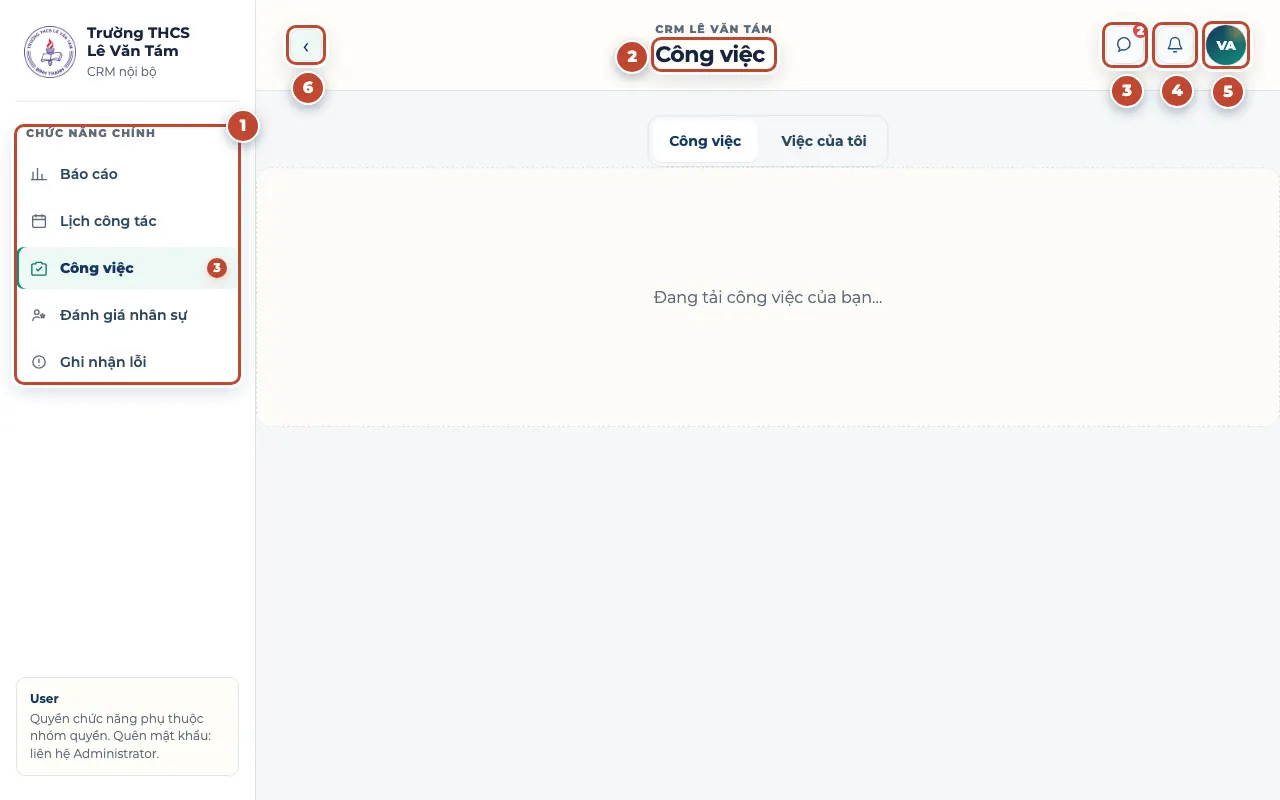
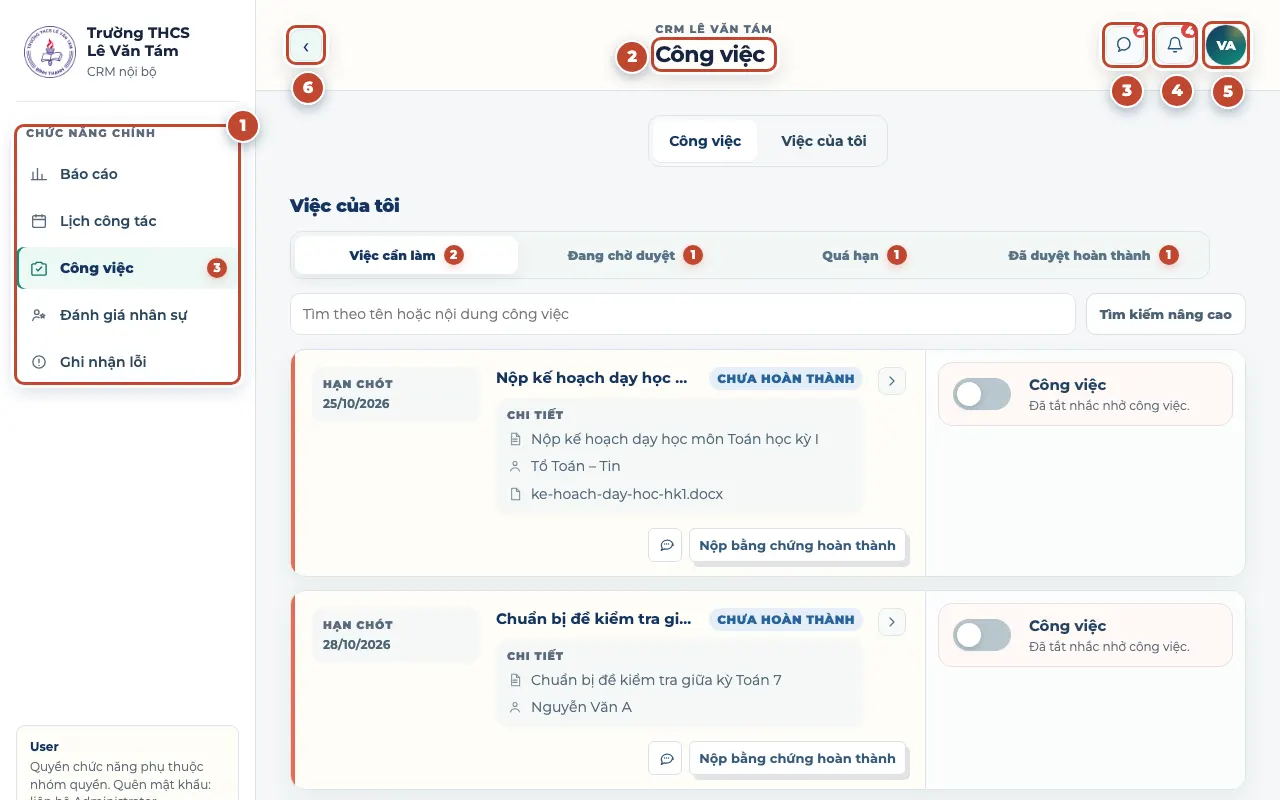
docs(guide): per-menu reference, flow diagrams, refreshed screenshots

diff --git a/public/huong-dan-su-dung.html b/public/huong-dan-su-dung.html
@@ -593,10 +593,10 @@ mark { background: #fff3c8; color: inherit; border-radius: 3px; padding: 0 1px; 
       <p class="hero-kicker">CRM nội bộ · Trường THCS Lê Văn Tám</p>
       <h1>Cẩm nang sử dụng</h1>
       <p class="hero-sub">Hướng dẫn từng bước, có hình minh họa đánh số. Chọn vai trò của thầy cô để bắt đầu, hoặc gõ điều cần tìm vào ô tìm kiếm.</p>
-      <p class="hero-meta">45 chủ đề · 74 hình minh họa · Cập nhật 21/10/2026</p>
+      <p class="hero-meta">50 chủ đề · 77 hình minh họa · Cập nhật 22/10/2026</p>
     </div>
   </div>
-  <nav class="role-cards" aria-label="Chọn theo vai trò"><a class="role-card" href="#bat-dau-nhanh"><span class="role-icon" aria-hidden="true">🚀</span><strong>Bắt đầu nhanh</strong><small>Đăng nhập, quên mật khẩu, làm quen màn hình</small></a><a class="role-card" href="#giao-vien"><span class="role-icon" aria-hidden="true">👩🏫</span><strong>Tôi là giáo viên</strong><small>Lịch công tác, công việc, việc của tôi, trao đổi</small></a><a class="role-card" href="#gvcn"><span class="role-icon" aria-hidden="true">🏫</span><strong>Tôi là GVCN</strong><small>Lớp chủ nhiệm, điểm danh lớp, báo cáo</small></a><a class="role-card" href="#giam-thi"><span class="role-icon" aria-hidden="true">📋</span><strong>Tôi là Giám thị</strong><small>Điểm danh các lớp theo khối, nhập Excel</small></a><a class="role-card" href="#to-truong-bgh"><span class="role-icon" aria-hidden="true">🧭</span><strong>Tổ trưởng / BGH</strong><small>Tạo, duyệt, sửa lịch; duyệt công văn; báo cáo</small></a><a class="role-card" href="#van-thu-quan-tri"><span class="role-icon" aria-hidden="true">🗂</span><strong>Văn thư / Quản trị</strong><small>Công văn, tài khoản, nhóm quyền, năm học</small></a><a class="role-card" href="#tra-cuu-menu"><span class="role-icon" aria-hidden="true">📚</span><strong>Tra cứu theo menu</strong><small>Mỗi menu có gì, ai thấy, nút nào làm gì</small></a></nav>
+  <nav class="role-cards" aria-label="Chọn theo vai trò"><a class="role-card" href="#bat-dau-nhanh"><span class="role-icon" aria-hidden="true">🚀</span><strong>Bắt đầu nhanh</strong><small>Đăng nhập, quên mật khẩu, làm quen màn hình</small></a><a class="role-card" href="#giao-vien"><span class="role-icon" aria-hidden="true">👩🏫</span><strong>Tôi là giáo viên</strong><small>Lịch công tác, công việc, việc của tôi, trao đổi</small></a><a class="role-card" href="#gvcn"><span class="role-icon" aria-hidden="true">🏫</span><strong>Tôi là GVCN</strong><small>Lớp chủ nhiệm, điểm danh lớp, báo cáo</small></a><a class="role-card" href="#giam-thi"><span class="role-icon" aria-hidden="true">📋</span><strong>Tôi là Giám thị</strong><small>Điểm danh các lớp theo khối, nhập Excel</small></a><a class="role-card" href="#to-truong-bgh"><span class="role-icon" aria-hidden="true">🧭</span><strong>Tổ trưởng / BGH</strong><small>Tạo, duyệt, sửa lịch; giao và duyệt việc; báo cáo</small></a><a class="role-card" href="#van-thu-quan-tri"><span class="role-icon" aria-hidden="true">🗂</span><strong>Văn thư / Quản trị</strong><small>Lịch tuần, lớp, tài khoản, nhóm quyền, năm học</small></a><a class="role-card" href="#tra-cuu-menu"><span class="role-icon" aria-hidden="true">📚</span><strong>Tra cứu theo menu</strong><small>Mỗi menu có gì, ai thấy, nút nào làm gì</small></a></nav>
 </header>
 
 <div class="layout">
@@ -619,7 +619,7 @@ mark { background: #fff3c8; color: inherit; border-radius: 3px; padding: 0 1px; 
 <li class="toc-part" data-part="giam-thi"><a href="#giam-thi"><span class="toc-num">4</span>Tôi là Giám thị</a><ol><li data-topic="dd-diem-danh-man-hinh"><a href="#dd-diem-danh-man-hinh">Điểm danh các lớp trên màn hình</a></li><li data-topic="dd-diem-danh-excel"><a href="#dd-diem-danh-excel">Nhập điểm danh bằng file Excel</a></li><li data-topic="dd-diem-danh-dien-thoai"><a href="#dd-diem-danh-dien-thoai">Điểm danh trên điện thoại</a></li></ol></li>
 <li class="toc-part" data-part="to-truong-bgh"><a href="#to-truong-bgh"><span class="toc-num">5</span>Tôi là tổ trưởng / Ban Giám hiệu</a><ol><li data-topic="ct-tao-cong-tac"><a href="#ct-tao-cong-tac">Tạo công tác mới</a></li><li data-topic="ct-import-excel"><a href="#ct-import-excel">Nhập nhiều công tác bằng Excel</a></li><li data-topic="ct-bgh-duyet-sua"><a href="#ct-bgh-duyet-sua">Ban Giám hiệu duyệt, trả lại hoặc sửa trực tiếp lịch tuần</a></li><li data-topic="cv-tao-cong-viec"><a href="#cv-tao-cong-viec">Tạo công việc và giao cho phòng ban, cá nhân</a></li><li data-topic="cv-duyet-hoan-thanh"><a href="#cv-duyet-hoan-thanh">Duyệt kết quả hoàn thành</a></li><li data-topic="bc-bao-cao-cong-viec"><a href="#bc-bao-cao-cong-viec">Báo cáo công việc theo người và theo kỳ</a></li><li data-topic="dg-danh-gia-nguoi-khac"><a href="#dg-danh-gia-nguoi-khac">Đánh giá nhân sự cấp dưới (tổ trưởng, Ban Giám hiệu)</a></li></ol></li>
 <li class="toc-part" data-part="van-thu-quan-tri"><a href="#van-thu-quan-tri"><span class="toc-num">6</span>Văn thư / Quản trị hệ thống</a><ol><li data-topic="tl-trinh-tu-thiet-lap"><a href="#tl-trinh-tu-thiet-lap">Trình tự thiết lập đầu năm học</a></li><li data-topic="ct-nop-duyet-tuan"><a href="#ct-nop-duyet-tuan">Nộp lịch tuần cho Ban Giám hiệu duyệt</a></li><li data-topic="cn-quan-ly-lop"><a href="#cn-quan-ly-lop">Quản lý lớp, phân công GVCN và nhập danh sách học sinh</a></li><li data-topic="tl-nguoi-dung"><a href="#tl-nguoi-dung">Tạo tài khoản người dùng</a></li><li data-topic="tl-quan-ly-tai-khoan"><a href="#tl-quan-ly-tai-khoan">Sửa, đặt lại mật khẩu, khóa và mở khóa tài khoản</a></li><li data-topic="tl-import-export"><a href="#tl-import-export">Import và xuất danh sách người dùng bằng Excel</a></li><li data-topic="tl-phong-ban"><a href="#tl-phong-ban">Thiết lập phòng ban</a></li><li data-topic="tl-chuc-vu"><a href="#tl-chuc-vu">Thiết lập chức vụ và cấp bậc</a></li><li data-topic="tl-nhom-quyen"><a href="#tl-nhom-quyen">Thiết lập nhóm quyền (kể cả Giám thị)</a></li><li data-topic="nh-thiet-lap-nam-hoc"><a href="#nh-thiet-lap-nam-hoc">Thiết lập năm học và ngày nghỉ lễ</a></li><li data-topic="tl-loai-van-ban"><a href="#tl-loai-van-ban">Thiết lập loại văn bản</a></li><li data-topic="tl-hien-thi"><a href="#tl-hien-thi">Thiết lập hiển thị và mốc thông báo</a></li></ol></li>
-<li class="toc-part" data-part="tra-cuu-menu"><a href="#tra-cuu-menu"><span class="toc-num">7</span>Tra cứu theo menu</a><ol></ol></li>
+<li class="toc-part" data-part="tra-cuu-menu"><a href="#tra-cuu-menu"><span class="toc-num">7</span>Tra cứu theo menu</a><ol><li data-topic="menu-lich-cong-tac"><a href="#menu-lich-cong-tac">Lịch công tác</a></li><li data-topic="menu-cong-viec"><a href="#menu-cong-viec">Công việc</a></li><li data-topic="menu-lop-chu-nhiem"><a href="#menu-lop-chu-nhiem">Lớp chủ nhiệm và Điểm danh</a></li><li data-topic="menu-khac"><a href="#menu-khac">Thông báo, Trao đổi, Báo cáo, Đánh giá nhân sự, Ghi nhận lỗi</a></li><li data-topic="khi-khong-thay"><a href="#khi-khong-thay">Khi không thấy menu, nút hoặc dữ liệu</a></li></ol></li>
       </ol>
     </details>
   </aside>
@@ -678,9 +678,9 @@ mark { background: #fff3c8; color: inherit; border-radius: 3px; padding: 0 1px; 
 <header class="topic-head"><h3><a class="topic-anchor" href="#vai-tro-va-quyen">Vai trò, chức vụ và nhóm quyền</a></h3><div class="chips"><span class="chip chip-menu">Toàn bộ ứng dụng</span><span class="chip">Mọi người</span></div></header>
 <p class="lead">Hiểu vì sao mỗi người thấy menu và nút khác nhau.</p>
 <p>Mỗi tài khoản có <strong>một vai trò</strong>:</p>
-<div class="table-wrap"><table><thead><tr><th scope="col">Vai trò</th><th scope="col">Ai thường giữ</th><th scope="col">Được làm gì</th></tr></thead><tbody><tr><td><strong>Administrator</strong></td><td>Quản trị viên CNTT</td><td>Toàn quyền, gồm phần <strong>Thiết lập tối cao</strong> (tài khoản, phòng ban, chức vụ, nhóm quyền, năm học…).</td></tr><tr><td><strong>Moderator</strong></td><td>Văn thư, người điều phối</td><td>Quản lý nghiệp vụ hằng ngày: công văn, lịch công tác, lớp, báo cáo. Không vào Thiết lập tối cao.</td></tr><tr><td><strong>User</strong></td><td>Giáo viên, nhân viên, BGH</td><td>Dùng các menu mà <strong>nhóm quyền</strong> cho phép.</td></tr></tbody></table></div>
+<div class="table-wrap"><table><thead><tr><th scope="col">Vai trò</th><th scope="col">Ai thường giữ</th><th scope="col">Được làm gì</th></tr></thead><tbody><tr><td><strong>Administrator</strong></td><td>Quản trị viên CNTT</td><td>Toàn quyền, gồm phần <strong>Thiết lập tối cao</strong> (tài khoản, phòng ban, chức vụ, nhóm quyền, năm học…).</td></tr><tr><td><strong>Moderator</strong></td><td>Văn thư, người điều phối</td><td>Quản lý nghiệp vụ hằng ngày: giao việc, lịch công tác, lớp, báo cáo. Không vào Thiết lập tối cao.</td></tr><tr><td><strong>User</strong></td><td>Giáo viên, nhân viên, BGH</td><td>Dùng các menu mà <strong>nhóm quyền</strong> cho phép.</td></tr></tbody></table></div>
 <p>Với <strong>User</strong>, ba thứ quyết định những gì thầy cô thấy:</p>
-<ul class="bullets"><li><strong>Nhóm quyền</strong>: mỗi menu ở một mức <strong>Ẩn</strong> (không thấy), <strong>Xem</strong> (dùng trong phạm vi của mình) hoặc <strong>Xem tối cao</strong> (xem rộng hơn, ví dụ toàn trường).</li><li><strong>Giám thị</strong>: mức đặc biệt, chỉ có ở menu <strong>Điểm danh</strong>. Người có mức này điểm danh được các lớp; nó không mở thêm menu nào khác.</li><li><strong>Chức vụ</strong> (1 đến 5 sao): cấp cao hơn mới duyệt, giao việc hay ghi nhận lỗi cho cấp thấp hơn. Tổ trưởng, tổ phó (2–3 sao) tạo được lịch công tác cho tổ; Phó Hiệu trưởng, Hiệu trưởng (4–5 sao) duyệt công văn và duyệt, sửa lịch công tác tuần.</li></ul>
+<ul class="bullets"><li><strong>Nhóm quyền</strong>: mỗi menu ở một mức <strong>Ẩn</strong> (không thấy), <strong>Xem</strong> (dùng trong phạm vi của mình) hoặc <strong>Xem tối cao</strong> (xem rộng hơn, ví dụ toàn trường).</li><li><strong>Giám thị</strong>: mức đặc biệt, chỉ có ở menu <strong>Điểm danh</strong>. Người có mức này điểm danh được các lớp; nó không mở thêm menu nào khác.</li><li><strong>Chức vụ</strong> (1 đến 5 sao): cấp cao hơn mới duyệt, giao việc hay ghi nhận lỗi cho cấp thấp hơn. Tổ trưởng, tổ phó (2–3 sao) tạo được lịch công tác cho tổ và giao việc; Phó Hiệu trưởng, Hiệu trưởng (4–5 sao) duyệt, sửa lịch công tác tuần và ghi nhận xét đánh giá.</li></ul>
 <div class="figure-row"><figure class="figure" id="hinh-7"><button type="button" class="figure-zoom" aria-label="Phóng to hình 7"><img src="huong-dan/menu-giao-vien.webp" width="256" height="640" alt="Hình 7. Cùng một ứng dụng nhưng menu khác nhau: giáo viên" loading="lazy" decoding="async"></button><figcaption><b>Hình 7.</b> Cùng một ứng dụng nhưng menu khác nhau: giáo viên</figcaption></figure><figure class="figure" id="hinh-8"><button type="button" class="figure-zoom" aria-label="Phóng to hình 8"><img src="huong-dan/menu-giam-thi.webp" width="256" height="640" alt="Hình 8. Giám thị" loading="lazy" decoding="async"></button><figcaption><b>Hình 8.</b> Giám thị</figcaption></figure><figure class="figure" id="hinh-9"><button type="button" class="figure-zoom" aria-label="Phóng to hình 9"><img src="huong-dan/menu-quan-tri.webp" width="256" height="1100" alt="Hình 9. Quản trị viên (có thêm Thiết lập tối cao)" loading="lazy" decoding="async"></button><figcaption><b>Hình 9.</b> Quản trị viên (có thêm Thiết lập tối cao)</figcaption></figure></div>
 <aside class="callout callout-note"><p class="callout-title"><svg viewBox="0 0 24 24" width="18" height="18" fill="none" stroke="currentColor" stroke-width="2" stroke-linecap="round" stroke-linejoin="round" aria-hidden="true"><circle cx="12" cy="12" r="9"/><path d="M12 11v6M12 7.5h.01"/></svg><span>Moderator theo phòng ban</span></p><p>Nhà trường có thể giới hạn một Moderator chỉ quản lý <strong>phòng ban của mình</strong> ở Công việc, Báo cáo, Đánh giá nhân sự và Ghi nhận lỗi. Khi đó họ chỉ thấy dữ liệu của tổ đó.</p></aside>
 <aside class="callout callout-tip"><p class="callout-title"><svg viewBox="0 0 24 24" width="18" height="18" fill="none" stroke="currentColor" stroke-width="2" stroke-linecap="round" stroke-linejoin="round" aria-hidden="true"><path d="M9 18h6M10 21h4M12 3a6 6 0 0 0-3.5 10.9c.6.5 1 1.2 1 2V16h5v-.1c0-.8.4-1.5 1-2A6 6 0 0 0 12 3Z"/></svg><span>Mẹo</span></p><p><strong>Trao đổi</strong> và <strong>Công việc</strong> (ít nhất là tab <strong>Việc của tôi</strong>) luôn có cho mọi tài khoản đang hoạt động.</p></aside>
@@ -912,7 +912,7 @@ mark { background: #fff3c8; color: inherit; border-radius: 3px; padding: 0 1px; 
 </article>
 </section>
 <section class="part" id="to-truong-bgh" aria-labelledby="to-truong-bgh-title">
-<header class="part-head"><p class="part-kicker">Phần 5 · Quản lý chuyên môn</p><h2 id="to-truong-bgh-title">Tôi là tổ trưởng / Ban Giám hiệu</h2><p>Tạo và duyệt lịch công tác, duyệt công văn, giao việc cho tổ, theo dõi báo cáo và đánh giá nhân sự.</p></header>
+<header class="part-head"><p class="part-kicker">Phần 5 · Quản lý chuyên môn</p><h2 id="to-truong-bgh-title">Tôi là tổ trưởng / Ban Giám hiệu</h2><p>Tạo lịch cho tổ, duyệt và sửa lịch tuần của trường, giao việc và duyệt kết quả, theo dõi báo cáo và đánh giá nhân sự.</p></header>
 <article class="topic" id="ct-tao-cong-tac" data-keywords="tao cong tac, them lich, len lich, hop to">
 <header class="topic-head"><h3><a class="topic-anchor" href="#ct-tao-cong-tac">Tạo công tác mới</a></h3><div class="chips"><span class="chip chip-menu">Lịch công tác → + Tạo công tác</span><span class="chip">Tổ trưởng</span><span class="chip">Tổ phó</span><span class="chip">Văn thư</span></div></header>
 <p class="lead">Lên lịch một buổi họp, dự giờ, sự kiện cho tổ hoặc cho toàn trường.</p>
@@ -987,7 +987,7 @@ mark { background: #fff3c8; color: inherit; border-radius: 3px; padding: 0 1px; 
 </article>
 </section>
 <section class="part" id="van-thu-quan-tri" aria-labelledby="van-thu-quan-tri-title">
-<header class="part-head"><p class="part-kicker">Phần 6 · Moderator · Administrator</p><h2 id="van-thu-quan-tri-title">Văn thư / Quản trị hệ thống</h2><p>Nhập công văn và giao việc, quản lý tài khoản, phòng ban, chức vụ, nhóm quyền, năm học.</p></header>
+<header class="part-head"><p class="part-kicker">Phần 6 · Moderator · Administrator</p><h2 id="van-thu-quan-tri-title">Văn thư / Quản trị hệ thống</h2><p>Soạn và nộp lịch tuần, quản lý lớp, tài khoản, phòng ban, chức vụ, nhóm quyền, năm học và các thiết lập chung.</p></header>
 <article class="topic" id="tl-trinh-tu-thiet-lap" data-keywords="thiet lap, dau nam, cai dat, trinh tu">
 <header class="topic-head"><h3><a class="topic-anchor" href="#tl-trinh-tu-thiet-lap">Trình tự thiết lập đầu năm học</a></h3><div class="chips"><span class="chip chip-menu">Thiết lập tối cao</span><span class="chip">Administrator</span></div></header>
 <p class="lead">Làm theo đúng thứ tự để khi tạo tài khoản đã có sẵn mọi lựa chọn.</p>
@@ -1096,7 +1096,44 @@ mark { background: #fff3c8; color: inherit; border-radius: 3px; padding: 0 1px; 
 </section>
 <section class="part" id="tra-cuu-menu" aria-labelledby="tra-cuu-menu-title">
 <header class="part-head"><p class="part-kicker">Phần 7 · Tham khảo</p><h2 id="tra-cuu-menu-title">Tra cứu theo menu</h2><p>Tóm tắt từng menu: dùng để làm gì, ai nhìn thấy, các nút chính và liên kết tới hướng dẫn chi tiết.</p></header>
-
+<article class="topic" id="menu-lich-cong-tac" data-keywords="tra cuu, lich cong tac, menu">
+<header class="topic-head"><h3><a class="topic-anchor" href="#menu-lich-cong-tac">Lịch công tác</a></h3><div class="chips"><span class="chip chip-menu">Lịch công tác</span><span class="chip">Mọi người có quyền Xem</span></div></header>
+<p class="lead">Lịch họp, dự giờ, sự kiện của cá nhân, của tổ và của toàn trường.</p>
+<ol class="steps"><li>Mở menu <strong>Lịch công tác</strong> ở cột trái (trên điện thoại: <strong>☰ → Lịch công tác</strong>).</li><li>Chọn tab <strong>Lịch công tác cá nhân</strong> hoặc <strong>Lịch công tác chung</strong>.</li></ol>
+<figure class="figure is-diagram" id="hinh-75"><button type="button" class="figure-zoom" aria-label="Phóng to hình 75"><img src="huong-dan/luong-lich-cong-tac.svg" width="900" height="380" alt="Hình 75. Luồng Lịch công tác: Văn thư soạn và nộp, Ban Giám hiệu duyệt hoặc sửa, giáo viên thấy lịch" loading="lazy" decoding="async"></button><figcaption><b>Hình 75.</b> Luồng Lịch công tác: Văn thư soạn và nộp, Ban Giám hiệu duyệt hoặc sửa, giáo viên thấy lịch</figcaption></figure>
+<div class="table-wrap"><table><thead><tr><th scope="col">Ai</th><th scope="col">Thấy / làm được gì</th><th scope="col">Hướng dẫn</th></tr></thead><tbody><tr><td>Mọi người</td><td>Lịch cá nhân, lịch chung đã duyệt, tải PDF, xác nhận tham gia</td><td><a href="#ct-xem-lich-ca-nhan">Lịch của tôi</a>, <a href="#ct-lich-chung-pdf">Lịch chung</a>, <a href="#ct-xac-nhan-tham-gia">Xác nhận</a></td></tr><tr><td>Tổ trưởng, tổ phó</td><td>Nút <strong>Import Excel</strong>, <strong>+ Tạo công tác</strong> ở góc phải; lịch cho tổ</td><td><a href="#ct-tao-cong-tac">Tạo công tác</a>, <a href="#ct-import-excel">Import Excel</a></td></tr><tr><td>Văn thư (Moderator), Admin</td><td>Tạo lịch trường, nộp lịch tuần cho BGH</td><td><a href="#ct-nop-duyet-tuan">Nộp duyệt</a></td></tr><tr><td>Ban Giám hiệu (4–5 sao)</td><td>Duyệt / trả lại lịch tuần, sửa trực tiếp, xem lịch sử</td><td><a href="#ct-bgh-duyet-sua">Duyệt, sửa</a></td></tr></tbody></table></div>
+</article>
+<article class="topic" id="menu-cong-viec" data-keywords="tra cuu, cong viec, viec cua toi, menu">
+<header class="topic-head"><h3><a class="topic-anchor" href="#menu-cong-viec">Công việc</a></h3><div class="chips"><span class="chip chip-menu">Công việc</span><span class="chip">Mọi người</span></div></header>
+<p class="lead">Công việc nhà trường giao (có hạn, có duyệt) và sổ tay việc riêng <strong>Việc của tôi</strong>.</p>
+<ol class="steps"><li>Mở menu <strong>Công việc</strong>. Số đỏ cạnh menu là số việc cần chú ý.</li><li>Chọn tab <strong>Công việc</strong> hoặc <strong>Việc của tôi</strong>.</li></ol>
+<figure class="figure is-diagram" id="hinh-76"><button type="button" class="figure-zoom" aria-label="Phóng to hình 76"><img src="huong-dan/luong-cong-viec.svg" width="900" height="300" alt="Hình 76. Luồng Công việc: người giao tạo việc, người nhận nộp bằng chứng, người giao duyệt hoặc trả về" loading="lazy" decoding="async"></button><figcaption><b>Hình 76.</b> Luồng Công việc: người giao tạo việc, người nhận nộp bằng chứng, người giao duyệt hoặc trả về</figcaption></figure>
+<div class="table-wrap"><table><thead><tr><th scope="col">Ai</th><th scope="col">Thấy / làm được gì</th><th scope="col">Hướng dẫn</th></tr></thead><tbody><tr><td>Mọi người</td><td>Việc được giao, nộp bằng chứng, Việc của tôi</td><td><a href="#cv-viec-duoc-giao">Việc được giao</a>, <a href="#cv-bi-tra-ve">Bị trả về</a>, <a href="#cv-viec-cua-toi">Việc của tôi</a></td></tr><tr><td>Văn thư, tổ trưởng, tổ phó, Admin</td><td><strong>Việc tôi tạo</strong>, <strong>+ Tạo công việc</strong>, duyệt hoàn thành</td><td><a href="#cv-tao-cong-viec">Tạo công việc</a>, <a href="#cv-duyet-hoan-thanh">Duyệt hoàn thành</a></td></tr></tbody></table></div>
+<aside class="callout callout-note"><p class="callout-title"><svg viewBox="0 0 24 24" width="18" height="18" fill="none" stroke="currentColor" stroke-width="2" stroke-linecap="round" stroke-linejoin="round" aria-hidden="true"><circle cx="12" cy="12" r="9"/><path d="M12 11v6M12 7.5h.01"/></svg><span>Ghi chú</span></p><p>Nếu nhóm quyền đặt menu Công việc là <strong>Ẩn</strong>, thầy cô vẫn có tab <strong>Việc của tôi</strong>.</p></aside>
+</article>
+<article class="topic" id="menu-lop-chu-nhiem" data-keywords="tra cuu, lop chu nhiem, diem danh, giam thi, menu">
+<header class="topic-head"><h3><a class="topic-anchor" href="#menu-lop-chu-nhiem">Lớp chủ nhiệm và Điểm danh</a></h3><div class="chips"><span class="chip chip-menu">Lớp chủ nhiệm · Điểm danh</span><span class="chip">GVCN</span><span class="chip">Giám thị</span><span class="chip">Ban Giám hiệu</span><span class="chip">Văn thư</span></div></header>
+<p class="lead">Hai menu cùng phục vụ việc theo dõi chuyên cần học sinh.</p>
+<ol class="steps"><li><strong>Điểm danh</strong>: Giám thị ghi học sinh vắng mỗi sáng.</li><li><strong>Lớp chủ nhiệm</strong>: GVCN xem lớp mình, phân loại vắng có phép / không phép, xem báo cáo.</li></ol>
+<figure class="figure is-diagram" id="hinh-77"><button type="button" class="figure-zoom" aria-label="Phóng to hình 77"><img src="huong-dan/luong-diem-danh.svg" width="900" height="280" alt="Hình 77. Luồng điểm danh: Giám thị điểm danh, GVCN đánh dấu vắng không phép, báo cáo chuyên cần" loading="lazy" decoding="async"></button><figcaption><b>Hình 77.</b> Luồng điểm danh: Giám thị điểm danh, GVCN đánh dấu vắng không phép, báo cáo chuyên cần</figcaption></figure>
+<div class="table-wrap"><table><thead><tr><th scope="col">Ai</th><th scope="col">Menu</th><th scope="col">Hướng dẫn</th></tr></thead><tbody><tr><td>Giám thị (nhóm quyền <strong>Giám thị</strong> ở Điểm danh)</td><td>Điểm danh hôm nay, nhập Excel</td><td><a href="#dd-diem-danh-man-hinh">Điểm danh</a>, <a href="#dd-diem-danh-excel">Excel</a>, <a href="#dd-diem-danh-dien-thoai">Điện thoại</a></td></tr><tr><td>GVCN (Lớp chủ nhiệm: <strong>Xem</strong>)</td><td>Lớp được phân công</td><td><a href="#cn-tong-quan-lop">Tổng quan</a>, <a href="#cn-diem-danh-lop">Vắng không phép</a>, <a href="#cn-danh-sach-hoc-sinh">Học sinh</a>, <a href="#cn-bao-cao-xuat-file">Báo cáo</a></td></tr><tr><td>Ban Giám hiệu (<strong>Xem tối cao</strong>)</td><td>Toàn trường</td><td><a href="#cn-tong-quan-lop">Tổng quan</a></td></tr><tr><td>Văn thư, Admin</td><td>Quản lý lớp, GVCN, danh sách học sinh, năm học; điểm danh ngày đã qua</td><td><a href="#cn-quan-ly-lop">Quản lý lớp</a>, <a href="#nh-thiet-lap-nam-hoc">Năm học</a></td></tr></tbody></table></div>
+</article>
+<article class="topic" id="menu-khac" data-keywords="tra cuu, thong bao, trao doi, bao cao, danh gia, ghi nhan loi, ban tru">
+<header class="topic-head"><h3><a class="topic-anchor" href="#menu-khac">Thông báo, Trao đổi, Báo cáo, Đánh giá nhân sự, Ghi nhận lỗi</a></h3><div class="chips"><span class="chip chip-menu">Các menu khác</span><span class="chip">Mọi người</span></div></header>
+<p class="lead">Tóm tắt nhanh các menu còn lại và nơi đọc hướng dẫn chi tiết.</p>
+<ol class="steps"><li>Tìm menu ở cột trái, hoặc biểu tượng ở góc trên bên phải (Trao đổi, chuông, ảnh đại diện).</li><li>Bấm liên kết trong bảng để đọc hướng dẫn.</li></ol>
+<div class="table-wrap"><table><thead><tr><th scope="col">Menu</th><th scope="col">Dùng để</th><th scope="col">Hướng dẫn</th></tr></thead><tbody><tr><td>Thông báo (chuông)</td><td>Lịch, việc sắp đến hạn, tin nhắn nhóm</td><td><a href="#tb-thong-bao">Thông báo</a></td></tr><tr><td>Trao đổi (tin nhắn)</td><td>Nhắn tin theo công việc, công tác, nhóm</td><td><a href="#td-trao-doi">Trao đổi</a>, <a href="#td-nhom">Nhóm</a></td></tr><tr><td>Báo cáo → Công việc</td><td>Lịch và chỉ số hoàn thành công việc theo người</td><td><a href="#bc-bao-cao-cong-viec">Báo cáo</a></td></tr><tr><td>Đánh giá nhân sự</td><td>Hồ sơ lỗi, công việc, kỳ đánh giá; BGH nhận xét</td><td><a href="#dg-ho-so-cua-toi">Của tôi</a>, <a href="#dg-danh-gia-nguoi-khac">Cấp dưới</a></td></tr><tr><td>Ghi nhận lỗi</td><td>Lỗi của tôi, lỗi do tôi ghi nhận</td><td><a href="#ln-ghi-nhan-loi">Ghi nhận lỗi</a></td></tr><tr><td>Ảnh đại diện</td><td>Hồ sơ, đổi mật khẩu, thiết bị, hướng dẫn, đăng xuất</td><td><a href="#tai-khoan-ca-nhan">Tài khoản</a></td></tr><tr><td>Thiết lập tối cao</td><td>Chỉ Administrator</td><td><a href="#tl-trinh-tu-thiet-lap">Trình tự thiết lập</a></td></tr></tbody></table></div>
+<aside class="callout callout-note"><p class="callout-title"><svg viewBox="0 0 24 24" width="18" height="18" fill="none" stroke="currentColor" stroke-width="2" stroke-linecap="round" stroke-linejoin="round" aria-hidden="true"><circle cx="12" cy="12" r="9"/><path d="M12 11v6M12 7.5h.01"/></svg><span>Ghi chú</span></p><p>Báo cáo <strong>Bán trú</strong> và trang quản lý kỳ bán trú hiện đang ẩn trên bản web; khi nhà trường mở lại, hướng dẫn sẽ được bổ sung.</p></aside>
+</article>
+<article class="topic" id="khi-khong-thay" data-keywords="loi, khong thay, mat menu, khong co nut, ho tro, tai lai trang">
+<header class="topic-head"><h3><a class="topic-anchor" href="#khi-khong-thay">Khi không thấy menu, nút hoặc dữ liệu</a></h3><div class="chips"><span class="chip chip-menu">Toàn bộ ứng dụng</span><span class="chip">Mọi người</span></div></header>
+<p class="lead">Các bước tự kiểm tra trước khi nhờ quản trị viên.</p>
+<ol class="steps"><li>Kiểm tra đang đăng nhập <strong>đúng tài khoản</strong> (bấm ảnh đại diện để xem tên).</li><li><strong>Tải lại trang</strong> (phím F5, hoặc kéo trang xuống trên điện thoại).</li><li>Kiểm tra đã chọn đúng <strong>kỳ, ngày, năm học</strong> hoặc đúng tab (ví dụ tab <strong>Quá hạn</strong> thay vì <strong>Việc cần làm</strong>).</li><li>Nhớ rằng nhiều nút chỉ hiện <strong>đúng lúc</strong> (xác nhận tham gia chỉ trong giờ công tác), <strong>đúng người</strong> (người giao mới duyệt được) hoặc <strong>đúng chức vụ</strong>.</li><li>Vẫn không được: chụp màn hình, ghi rõ đang làm gì, gửi cho quản trị viên của trường.</li></ol>
+<aside class="callout callout-tip"><p class="callout-title"><svg viewBox="0 0 24 24" width="18" height="18" fill="none" stroke="currentColor" stroke-width="2" stroke-linecap="round" stroke-linejoin="round" aria-hidden="true"><path d="M9 18h6M10 21h4M12 3a6 6 0 0 0-3.5 10.9c.6.5 1 1.2 1 2V16h5v-.1c0-.8.4-1.5 1-2A6 6 0 0 0 12 3Z"/></svg><span>Mẹo</span></p><p>Xem <a href="#vai-tro-va-quyen">Vai trò, chức vụ và nhóm quyền</a> để hiểu vì sao mỗi người thấy menu khác nhau.</p></aside>
+<h4>Câu hỏi thường gặp</h4>
+<details class="faq"><summary>Báo “phiên đăng nhập hết hạn”?</summary><div class="faq-answer"><p>Đăng nhập lại. Nếu quản trị viên vừa thu hồi phiên hoặc đặt lại mật khẩu, mọi thiết bị đều phải đăng nhập lại.</p></div></details>
+<details class="faq"><summary>Tôi có dùng được trên máy tính ở nhà không?</summary><div class="faq-answer"><p>Có, chỉ cần trình duyệt và mạng Internet. Nhớ <strong>Đăng xuất</strong> khi dùng máy tính chung.</p></div></details>
+</article>
 </section>
     <footer class="page-foot">
       <p>Không thấy menu hoặc nút như trong hình? Menu của mỗi người phụ thuộc vào vai trò, phòng ban, chức vụ và nhóm quyền. Hãy liên hệ quản trị viên của trường để kiểm tra.</p>

diff --git a/docs/guide/topics/start/vai-tro-va-quyen.md b/docs/guide/topics/start/vai-tro-va-quyen.md
@@ -12,14 +12,14 @@ Mỗi tài khoản có **một vai trò**:
 | Vai trò | Ai thường giữ | Được làm gì |
 |---|---|---|
 | **Administrator** | Quản trị viên CNTT | Toàn quyền, gồm phần **Thiết lập tối cao** (tài khoản, phòng ban, chức vụ, nhóm quyền, năm học…). |
-| **Moderator** | Văn thư, người điều phối | Quản lý nghiệp vụ hằng ngày: công văn, lịch công tác, lớp, báo cáo. Không vào Thiết lập tối cao. |
+| **Moderator** | Văn thư, người điều phối | Quản lý nghiệp vụ hằng ngày: giao việc, lịch công tác, lớp, báo cáo. Không vào Thiết lập tối cao. |
 | **User** | Giáo viên, nhân viên, BGH | Dùng các menu mà **nhóm quyền** cho phép. |
 
 Với **User**, ba thứ quyết định những gì thầy cô thấy:
 
 - **Nhóm quyền**: mỗi menu ở một mức **Ẩn** (không thấy), **Xem** (dùng trong phạm vi của mình) hoặc **Xem tối cao** (xem rộng hơn, ví dụ toàn trường).
 - **Giám thị**: mức đặc biệt, chỉ có ở menu **Điểm danh**. Người có mức này điểm danh được các lớp; nó không mở thêm menu nào khác.
-- **Chức vụ** (1 đến 5 sao): cấp cao hơn mới duyệt, giao việc hay ghi nhận lỗi cho cấp thấp hơn. Tổ trưởng, tổ phó (2–3 sao) tạo được lịch công tác cho tổ; Phó Hiệu trưởng, Hiệu trưởng (4–5 sao) duyệt công văn và duyệt, sửa lịch công tác tuần.
+- **Chức vụ** (1 đến 5 sao): cấp cao hơn mới duyệt, giao việc hay ghi nhận lỗi cho cấp thấp hơn. Tổ trưởng, tổ phó (2–3 sao) tạo được lịch công tác cho tổ và giao việc; Phó Hiệu trưởng, Hiệu trưởng (4–5 sao) duyệt, sửa lịch công tác tuần và ghi nhận xét đánh giá.
 
 ![Cùng một ứng dụng nhưng menu khác nhau: giáo viên](menu-giao-vien)
 ![Giám thị](menu-giam-thi)

diff --git a/docs/guide/topics/reference/menu-khac.md b/docs/guide/topics/reference/menu-khac.md
@@ -1,0 +1,25 @@
+---
+id: menu-khac
+title: Thông báo, Trao đổi, Báo cáo, Đánh giá nhân sự, Ghi nhận lỗi
+menu: Các menu khác
+roles: Mọi người
+keywords: tra cuu, thong bao, trao doi, bao cao, danh gia, ghi nhan loi, ban tru
+---
+Tóm tắt nhanh các menu còn lại và nơi đọc hướng dẫn chi tiết.
+
+1. Tìm menu ở cột trái, hoặc biểu tượng ở góc trên bên phải (Trao đổi, chuông, ảnh đại diện).
+2. Bấm liên kết trong bảng để đọc hướng dẫn.
+
+| Menu | Dùng để | Hướng dẫn |
+|---|---|---|
+| Thông báo (chuông) | Lịch, việc sắp đến hạn, tin nhắn nhóm | [Thông báo](#tb-thong-bao) |
+| Trao đổi (tin nhắn) | Nhắn tin theo công việc, công tác, nhóm | [Trao đổi](#td-trao-doi), [Nhóm](#td-nhom) |
+| Báo cáo → Công việc | Lịch và chỉ số hoàn thành công việc theo người | [Báo cáo](#bc-bao-cao-cong-viec) |
+| Đánh giá nhân sự | Hồ sơ lỗi, công việc, kỳ đánh giá; BGH nhận xét | [Của tôi](#dg-ho-so-cua-toi), [Cấp dưới](#dg-danh-gia-nguoi-khac) |
+| Ghi nhận lỗi | Lỗi của tôi, lỗi do tôi ghi nhận | [Ghi nhận lỗi](#ln-ghi-nhan-loi) |
+| Ảnh đại diện | Hồ sơ, đổi mật khẩu, thiết bị, hướng dẫn, đăng xuất | [Tài khoản](#tai-khoan-ca-nhan) |
+| Thiết lập tối cao | Chỉ Administrator | [Trình tự thiết lập](#tl-trinh-tu-thiet-lap) |
+
+::: note
+Báo cáo **Bán trú** và trang quản lý kỳ bán trú hiện đang ẩn trên bản web; khi nhà trường mở lại, hướng dẫn sẽ được bổ sung.
+:::

diff --git a/docs/guide/topics/reference/khi-khong-thay.md b/docs/guide/topics/reference/khi-khong-thay.md
@@ -1,0 +1,25 @@
+---
+id: khi-khong-thay
+title: Khi không thấy menu, nút hoặc dữ liệu
+menu: Toàn bộ ứng dụng
+roles: Mọi người
+keywords: loi, khong thay, mat menu, khong co nut, ho tro, tai lai trang
+---
+Các bước tự kiểm tra trước khi nhờ quản trị viên.
+
+1. Kiểm tra đang đăng nhập **đúng tài khoản** (bấm ảnh đại diện để xem tên).
+2. **Tải lại trang** (phím F5, hoặc kéo trang xuống trên điện thoại).
+3. Kiểm tra đã chọn đúng **kỳ, ngày, năm học** hoặc đúng tab (ví dụ tab **Quá hạn** thay vì **Việc cần làm**).
+4. Nhớ rằng nhiều nút chỉ hiện **đúng lúc** (xác nhận tham gia chỉ trong giờ công tác), **đúng người** (người giao mới duyệt được) hoặc **đúng chức vụ**.
+5. Vẫn không được: chụp màn hình, ghi rõ đang làm gì, gửi cho quản trị viên của trường.
+
+::: tip
+Xem [Vai trò, chức vụ và nhóm quyền](#vai-tro-va-quyen) để hiểu vì sao mỗi người thấy menu khác nhau.
+:::
+
+### Câu hỏi thường gặp
+??? Báo “phiên đăng nhập hết hạn”?
+Đăng nhập lại. Nếu quản trị viên vừa thu hồi phiên hoặc đặt lại mật khẩu, mọi thiết bị đều phải đăng nhập lại.
+
+??? Tôi có dùng được trên máy tính ở nhà không?
+Có, chỉ cần trình duyệt và mạng Internet. Nhớ **Đăng xuất** khi dùng máy tính chung.

diff --git a/docs/guide/topics/reference/menu-lop-chu-nhiem.md b/docs/guide/topics/reference/menu-lop-chu-nhiem.md
@@ -1,0 +1,20 @@
+---
+id: menu-lop-chu-nhiem
+title: Lớp chủ nhiệm và Điểm danh
+menu: Lớp chủ nhiệm · Điểm danh
+roles: GVCN, Giám thị, Ban Giám hiệu, Văn thư
+keywords: tra cuu, lop chu nhiem, diem danh, giam thi, menu
+---
+Hai menu cùng phục vụ việc theo dõi chuyên cần học sinh.
+
+1. **Điểm danh**: Giám thị ghi học sinh vắng mỗi sáng.
+2. **Lớp chủ nhiệm**: GVCN xem lớp mình, phân loại vắng có phép / không phép, xem báo cáo.
+
+![Luồng điểm danh: Giám thị điểm danh, GVCN đánh dấu vắng không phép, báo cáo chuyên cần](luong-diem-danh)
+
+| Ai | Menu | Hướng dẫn |
+|---|---|---|
+| Giám thị (nhóm quyền **Giám thị** ở Điểm danh) | Điểm danh hôm nay, nhập Excel | [Điểm danh](#dd-diem-danh-man-hinh), [Excel](#dd-diem-danh-excel), [Điện thoại](#dd-diem-danh-dien-thoai) |
+| GVCN (Lớp chủ nhiệm: **Xem**) | Lớp được phân công | [Tổng quan](#cn-tong-quan-lop), [Vắng không phép](#cn-diem-danh-lop), [Học sinh](#cn-danh-sach-hoc-sinh), [Báo cáo](#cn-bao-cao-xuat-file) |
+| Ban Giám hiệu (**Xem tối cao**) | Toàn trường | [Tổng quan](#cn-tong-quan-lop) |
+| Văn thư, Admin | Quản lý lớp, GVCN, danh sách học sinh, năm học; điểm danh ngày đã qua | [Quản lý lớp](#cn-quan-ly-lop), [Năm học](#nh-thiet-lap-nam-hoc) |

diff --git a/docs/guide/topics/reference/menu-lich-cong-tac.md b/docs/guide/topics/reference/menu-lich-cong-tac.md
@@ -1,0 +1,20 @@
+---
+id: menu-lich-cong-tac
+title: Lịch công tác
+menu: Lịch công tác
+roles: Mọi người có quyền Xem
+keywords: tra cuu, lich cong tac, menu
+---
+Lịch họp, dự giờ, sự kiện của cá nhân, của tổ và của toàn trường.
+
+1. Mở menu **Lịch công tác** ở cột trái (trên điện thoại: **☰ → Lịch công tác**).
+2. Chọn tab **Lịch công tác cá nhân** hoặc **Lịch công tác chung**.
+
+![Luồng Lịch công tác: Văn thư soạn và nộp, Ban Giám hiệu duyệt hoặc sửa, giáo viên thấy lịch](luong-lich-cong-tac)
+
+| Ai | Thấy / làm được gì | Hướng dẫn |
+|---|---|---|
+| Mọi người | Lịch cá nhân, lịch chung đã duyệt, tải PDF, xác nhận tham gia | [Lịch của tôi](#ct-xem-lich-ca-nhan), [Lịch chung](#ct-lich-chung-pdf), [Xác nhận](#ct-xac-nhan-tham-gia) |
+| Tổ trưởng, tổ phó | Nút **Import Excel**, **+ Tạo công tác** ở góc phải; lịch cho tổ | [Tạo công tác](#ct-tao-cong-tac), [Import Excel](#ct-import-excel) |
+| Văn thư (Moderator), Admin | Tạo lịch trường, nộp lịch tuần cho BGH | [Nộp duyệt](#ct-nop-duyet-tuan) |
+| Ban Giám hiệu (4–5 sao) | Duyệt / trả lại lịch tuần, sửa trực tiếp, xem lịch sử | [Duyệt, sửa](#ct-bgh-duyet-sua) |

diff --git a/docs/guide/topics/reference/menu-cong-viec.md b/docs/guide/topics/reference/menu-cong-viec.md
@@ -1,0 +1,22 @@
+---
+id: menu-cong-viec
+title: Công việc
+menu: Công việc
+roles: Mọi người
+keywords: tra cuu, cong viec, viec cua toi, menu
+---
+Công việc nhà trường giao (có hạn, có duyệt) và sổ tay việc riêng **Việc của tôi**.
+
+1. Mở menu **Công việc**. Số đỏ cạnh menu là số việc cần chú ý.
+2. Chọn tab **Công việc** hoặc **Việc của tôi**.
+
+![Luồng Công việc: người giao tạo việc, người nhận nộp bằng chứng, người giao duyệt hoặc trả về](luong-cong-viec)
+
+| Ai | Thấy / làm được gì | Hướng dẫn |
+|---|---|---|
+| Mọi người | Việc được giao, nộp bằng chứng, Việc của tôi | [Việc được giao](#cv-viec-duoc-giao), [Bị trả về](#cv-bi-tra-ve), [Việc của tôi](#cv-viec-cua-toi) |
+| Văn thư, tổ trưởng, tổ phó, Admin | **Việc tôi tạo**, **+ Tạo công việc**, duyệt hoàn thành | [Tạo công việc](#cv-tao-cong-viec), [Duyệt hoàn thành](#cv-duyet-hoan-thanh) |
+
+::: note
+Nếu nhóm quyền đặt menu Công việc là **Ẩn**, thầy cô vẫn có tab **Việc của tôi**.
+:::
